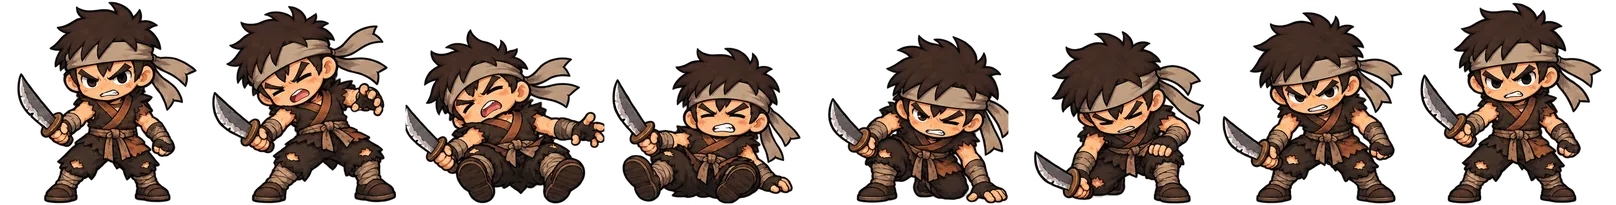
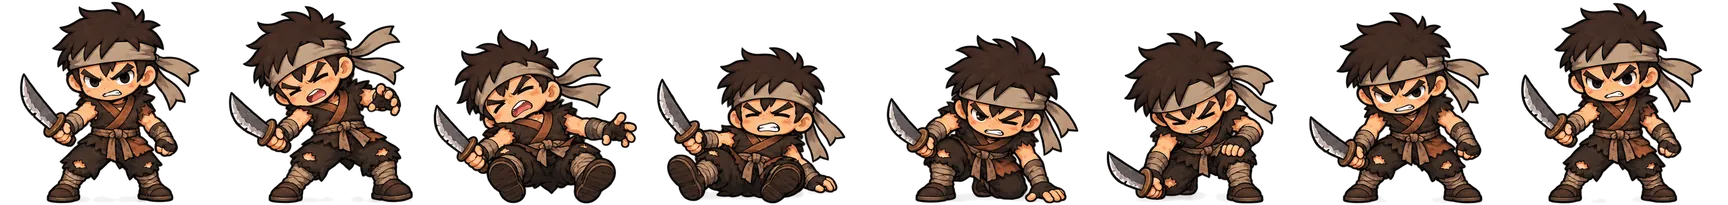
닌자 게임: 몬스터 그림 다시 자르기 (옆·아래 장면 조각이 겹쳐 보이던 문제 수정)
원본 시트의 캐릭터가 칸 경계 밖으로 나와 있어서, 칸 경계 대신 빈 줄을 찾아 장면을 나눔

Claude-Session: https://claude.ai/code/session_012edQYv3WiohCmZPowPJkZ5

diff --git a/public/ninja/index.html b/public/ninja/index.html
@@ -411,7 +411,7 @@ function drawIdle(cx,g,set,x,y,hgt,t=T){
   return true;
 }
 /* ---- 몬스터: 0 떠돌이 산적 · 1 하급 닌자(원거리) · 2 너구리 요괴 · 3 외눈 요괴 · 4 산적 부두목(중간 보스) · 5 산적 두목(보스) ---- */
-const MON={"0":{"ref":220,"d":{"w":230,"h":200,"n":8,"ax":130.6,"ay":197.5},"a":{"w":230,"h":219,"n":8,"ax":98.4,"ay":216.8},"q":{"w":199,"h":223,"n":8,"ax":109.5,"ay":219.5},"w":{"w":209,"h":231,"n":8,"ax":104.8,"ay":228.6},"h":{"w":202,"h":205,"n":8,"ax":106.8,"ay":202.9}},"1":{"ref":220,"d":{"w":243,"h":204,"n":8,"ax":137.5,"ay":200.6},"q":{"w":202,"h":233,"n":8,"ax":98.3,"ay":227.8},"w":{"w":224,"h":228,"n":8,"ax":118.4,"ay":225.6},"a":{"w":207,"h":236,"n":8,"ax":99.2,"ay":233.3},"h":{"w":220,"h":231,"n":8,"ax":90.7,"ay":228.3}},"2":{"ref":220,"d":{"w":275,"h":198,"n":8,"ax":153.9,"ay":194.9},"a":{"w":268,"h":260,"n":8,"ax":140.8,"ay":255.7},"q":{"w":263,"h":210,"n":8,"ax":134.0,"ay":206.8},"w":{"w":234,"h":234,"n":8,"ax":103.5,"ay":230.7},"h":{"w":266,"h":239,"n":8,"ax":133.3,"ay":236.3}},"3":{"ref":220,"d":{"w":267,"h":242,"n":8,"ax":153.5,"ay":239.1},"a":{"w":269,"h":212,"n":8,"ax":136.5,"ay":204.0},"q":{"w":221,"h":210,"n":8,"ax":129.8,"ay":204.6},"w":{"w":207,"h":236,"n":8,"ax":84.3,"ay":232.3},"h":{"w":232,"h":230,"n":8,"ax":114.2,"ay":207.7}},"4":{"ref":280,"d":{"w":301,"h":261,"n":8,"ax":162.3,"ay":257.4},"a":{"w":301,"h":281,"n":8,"ax":172.1,"ay":277.9},"q":{"w":292,"h":248,"n":8,"ax":145.5,"ay":245.7},"w":{"w":293,"h":287,"n":8,"ax":140.1,"ay":283.4},"h":{"w":292,"h":227,"n":8,"ax":139.0,"ay":223.7}},"5":{"ref":320,"d":{"w":331,"h":288,"n":8,"ax":190.1,"ay":284.4},"a":{"w":317,"h":328,"n":8,"ax":151.3,"ay":323.8},"q":{"w":325,"h":304,"n":8,"ax":166.8,"ay":300.3},"w":{"w":331,"h":326,"n":8,"ax":176.3,"ay":322.3},"h":{"w":331,"h":314,"n":8,"ax":183.3,"ay":310.2}},"k":{"w":72,"h":117,"n":8}};
+const MON={"0":{"ref":220,"d":{"w":232,"h":201,"n":8,"ax":130.7,"ay":198.1},"a":{"w":230,"h":219,"n":8,"ax":99.2,"ay":216.8},"q":{"w":199,"h":223,"n":8,"ax":109.6,"ay":219.5},"w":{"w":209,"h":231,"n":8,"ax":104.9,"ay":228.6},"h":{"w":216,"h":205,"n":8,"ax":109.5,"ay":202.9}},"1":{"ref":220,"d":{"w":254,"h":210,"n":8,"ax":109.0,"ay":206.1},"q":{"w":201,"h":232,"n":8,"ax":98.4,"ay":227.2},"w":{"w":224,"h":228,"n":8,"ax":118.4,"ay":225.0},"a":{"w":212,"h":236,"n":8,"ax":98.9,"ay":232.7},"h":{"w":223,"h":232,"n":8,"ax":91.5,"ay":228.9}},"2":{"ref":220,"d":{"w":278,"h":198,"n":8,"ax":154.7,"ay":194.4},"a":{"w":271,"h":259,"n":8,"ax":140.1,"ay":255.0},"q":{"w":271,"h":209,"n":8,"ax":133.7,"ay":206.2},"w":{"w":251,"h":234,"n":8,"ax":103.7,"ay":230.0},"h":{"w":269,"h":239,"n":8,"ax":133.1,"ay":235.6}},"3":{"ref":220,"d":{"w":271,"h":193,"n":8,"ax":162.4,"ay":189.3},"a":{"w":309,"h":235,"n":8,"ax":167.3,"ay":204.0},"q":{"w":232,"h":210,"n":8,"ax":129.4,"ay":204.6},"w":{"w":207,"h":236,"n":8,"ax":85.0,"ay":232.3},"h":{"w":232,"h":230,"n":8,"ax":114.2,"ay":207.7}},"4":{"ref":280,"d":{"w":327,"h":237,"n":8,"ax":165.9,"ay":233.3},"a":{"w":377,"h":288,"n":8,"ax":200.6,"ay":284.1},"q":{"w":300,"h":249,"n":8,"ax":145.3,"ay":245.7},"w":{"w":293,"h":287,"n":8,"ax":140.6,"ay":283.4},"h":{"w":299,"h":237,"n":8,"ax":139.1,"ay":233.3}},"5":{"ref":320,"d":{"w":363,"h":284,"n":8,"ax":213.4,"ay":280.7},"a":{"w":317,"h":353,"n":8,"ax":138.9,"ay":349.5},"q":{"w":325,"h":304,"n":8,"ax":167.0,"ay":300.3},"w":{"w":365,"h":326,"n":8,"ax":190.1,"ay":322.3},"h":{"w":358,"h":323,"n":8,"ax":183.2,"ay":319.2}},"k":{"w":72,"h":117,"n":8}};
 const MON_N=['떠돌이 산적','하급 닌자','너구리 요괴','외눈 요괴','산적 부두목','산적 두목'];
 const MON_SZ=[1,1,.92,.96,1,1.04];   // 종류별 키 보정
 const ATK_T=.6;                      // 공격 동작 시간(초), 절반에서 타격
